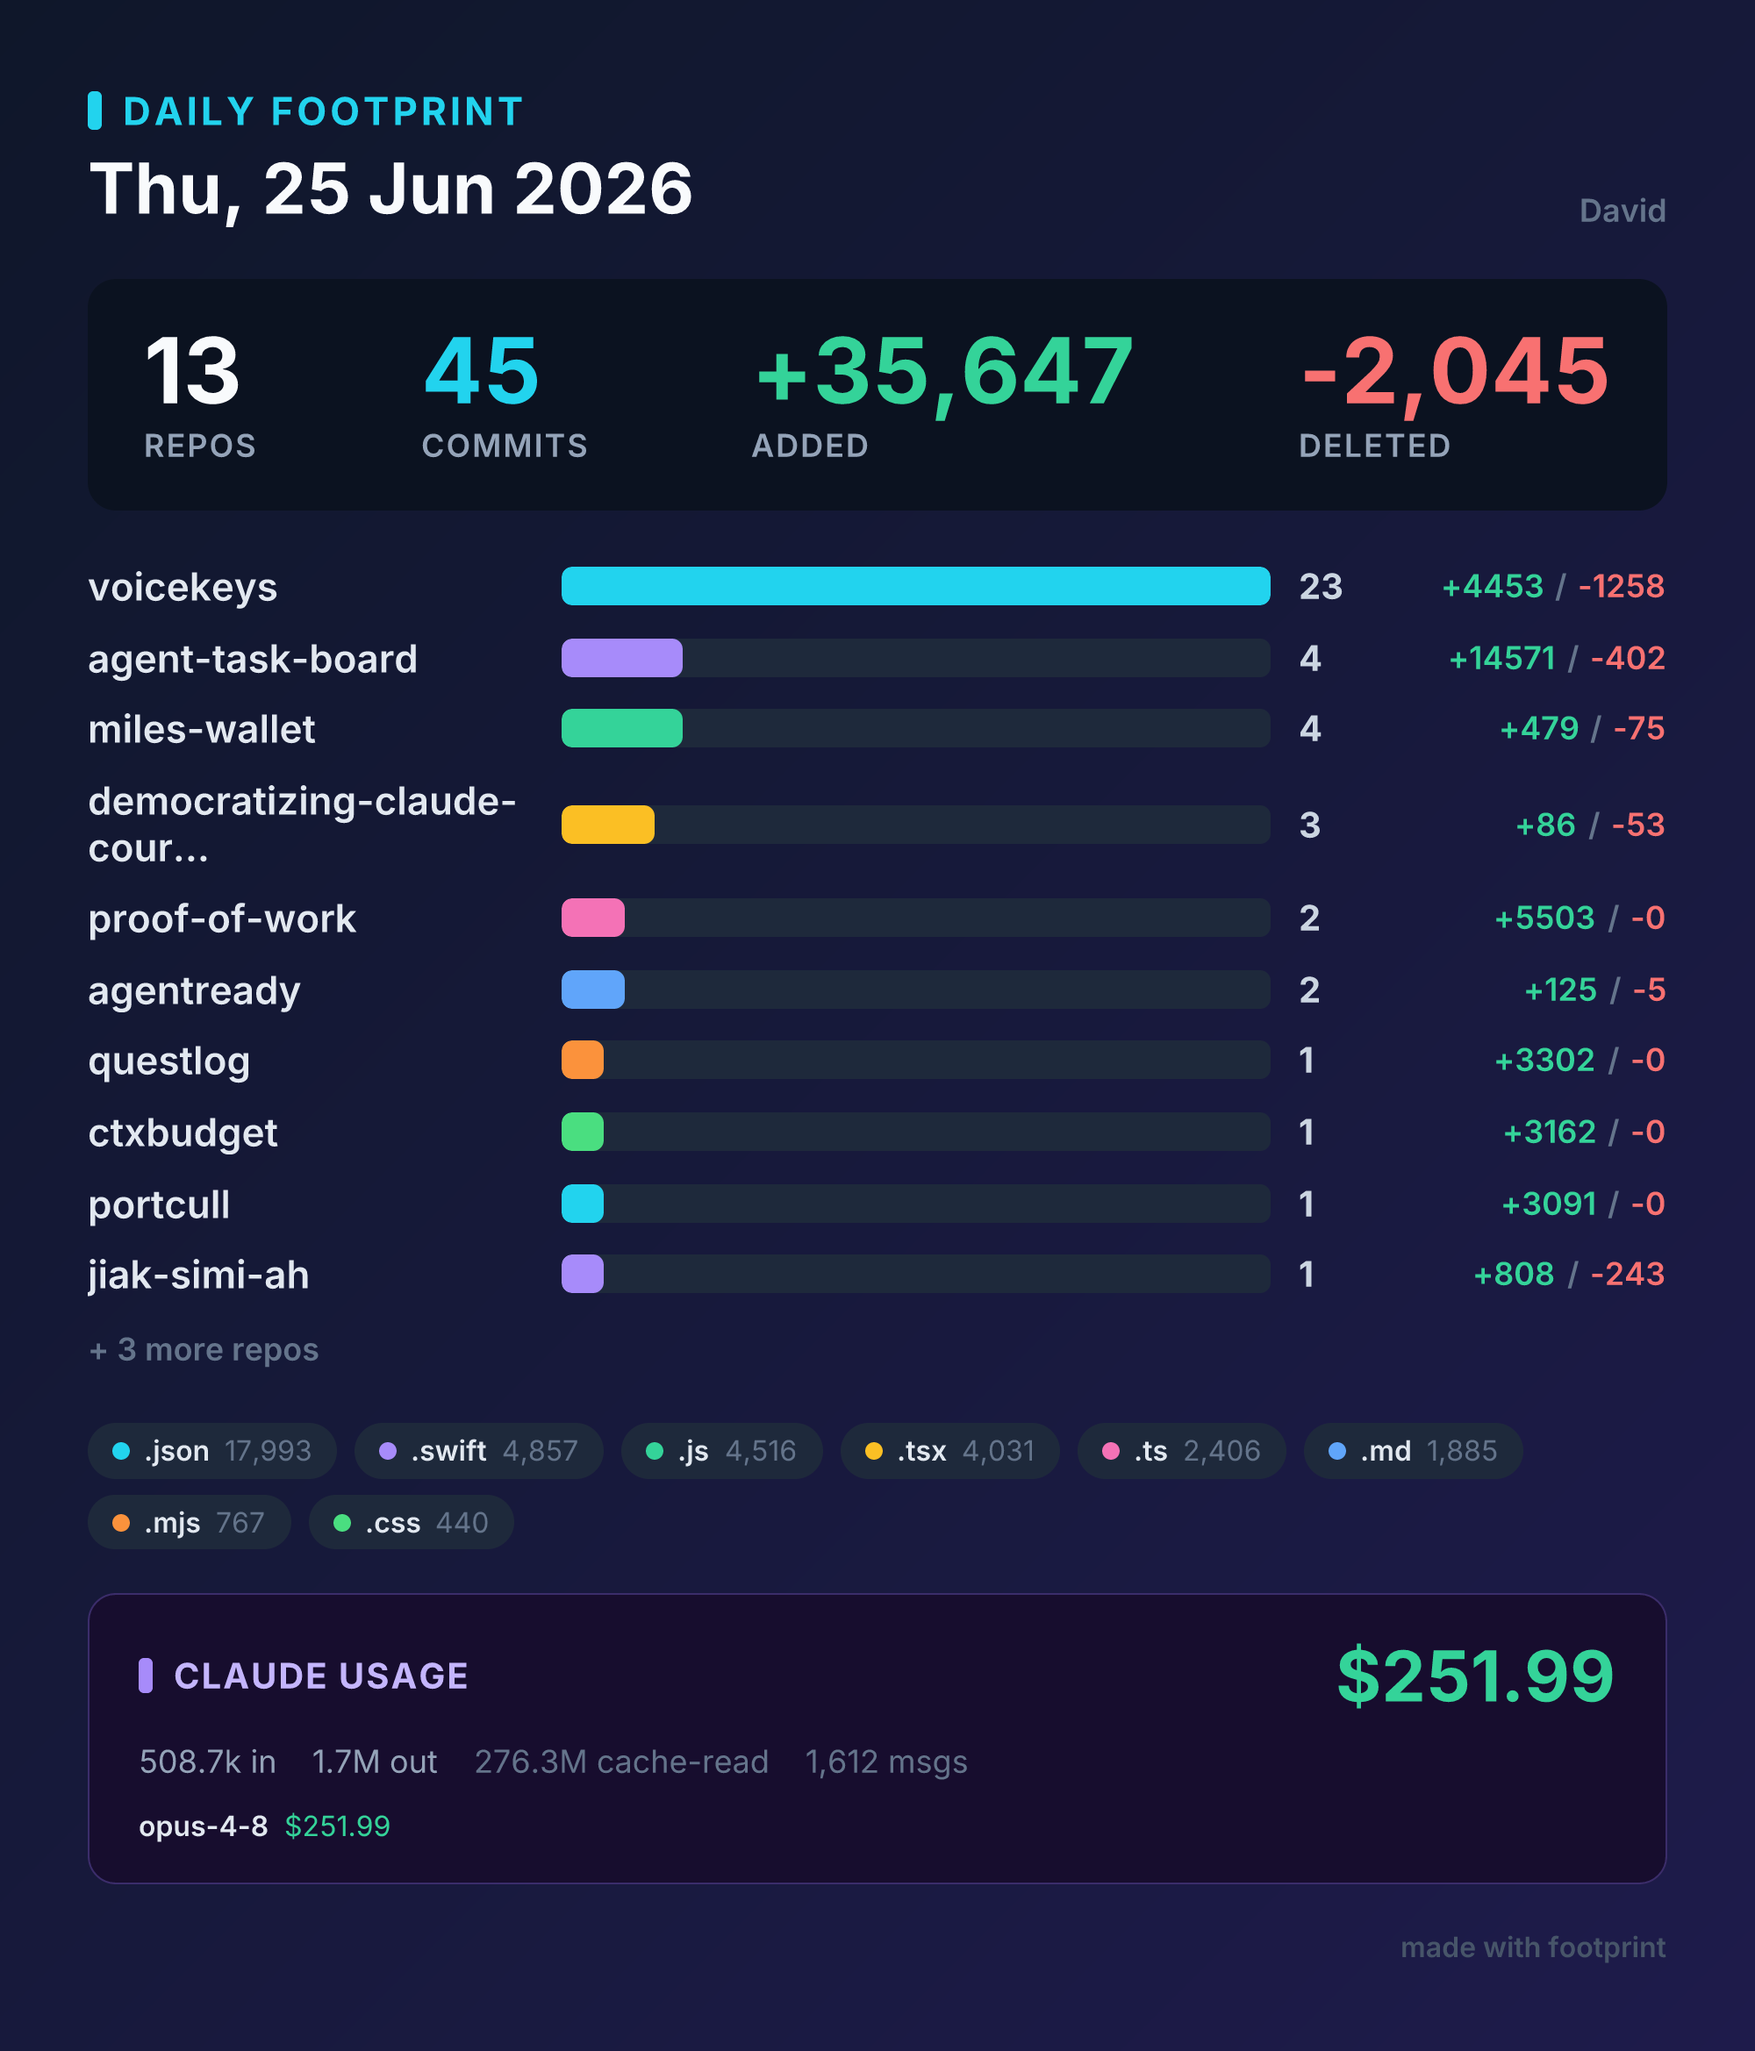
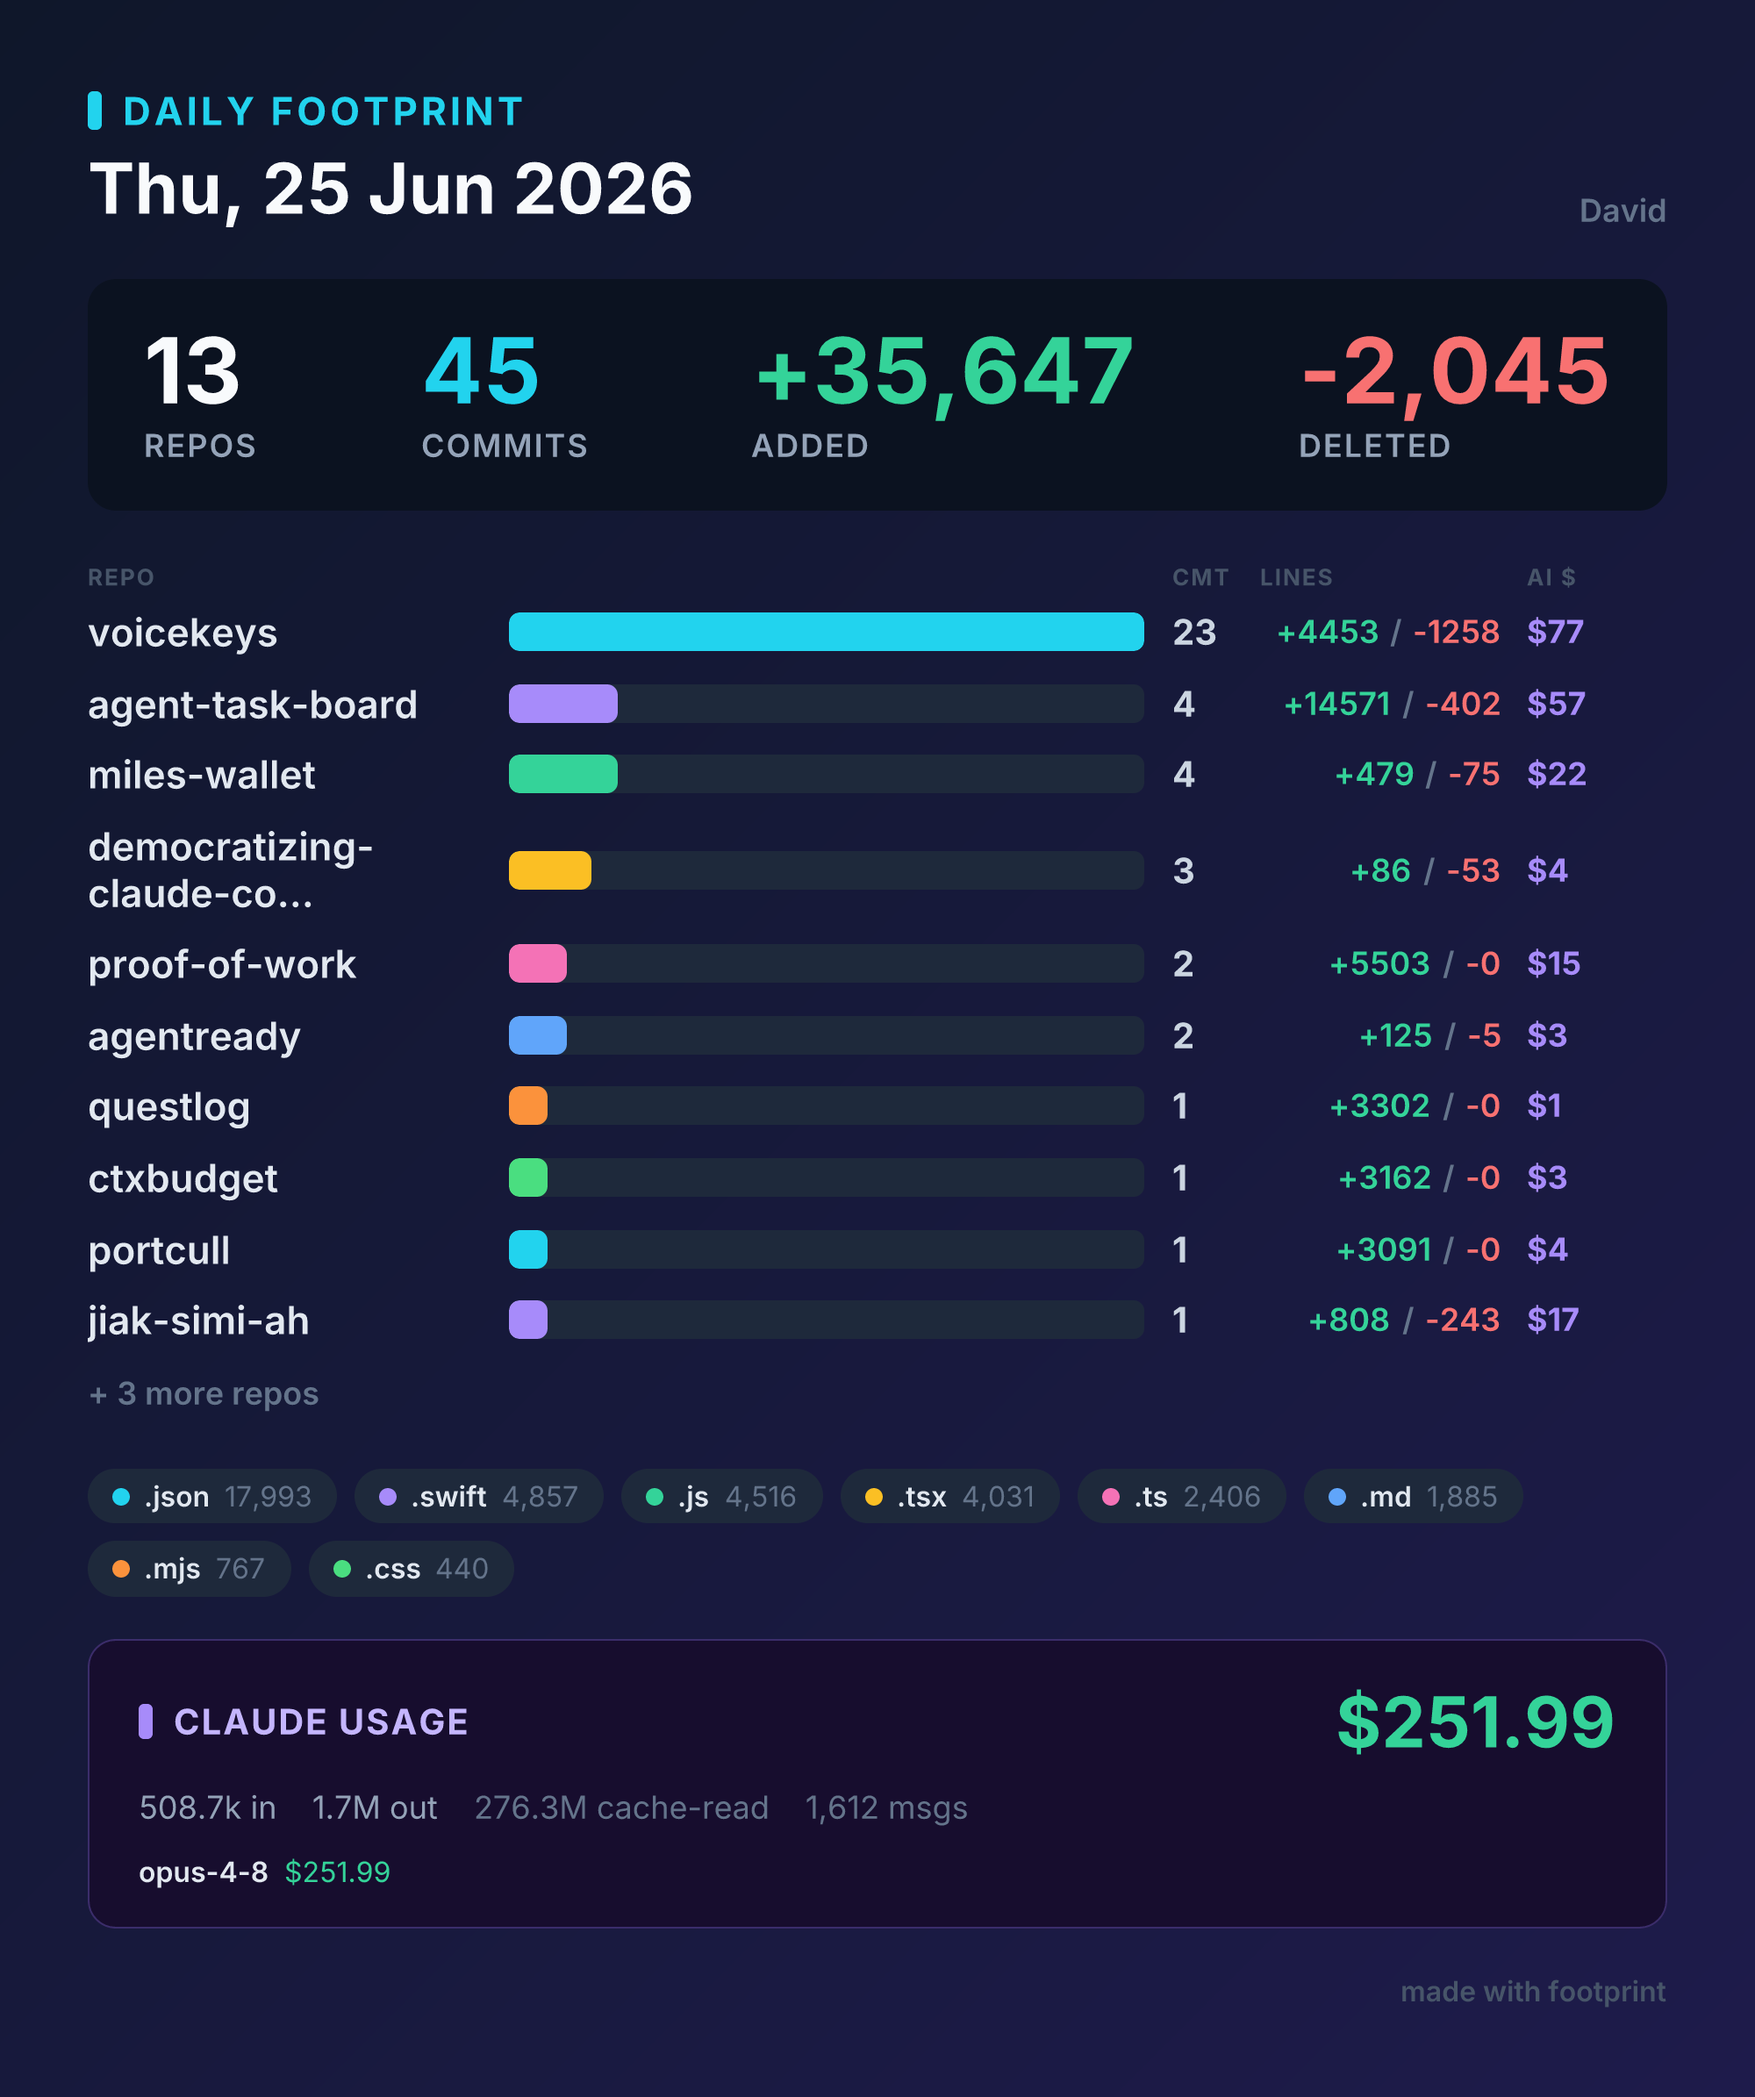
feat: show per-repo AI cost column on card and terminal
Attribute each day's Claude Code spend to repos via session cwd and display it
as an "AI $" column beside each repo's commits/churn, in both the PNG card
(with a column header) and the terminal report.

Claude-Session: https://claude.ai/code/session_01RUzYSZdFGcPb21wgFYuCj7

diff --git a/src/card.ts b/src/card.ts
@@ -31,22 +31,27 @@ function statBlock(value: string, label: string, color: string) {
   ]);
 }
 
-function repoRow(r: RepoSummary, maxCommits: number, color: string) {
+function repoRow(r: RepoSummary, maxCommits: number, color: string, cost?: number) {
   const pct = maxCommits > 0 ? Math.max(6, Math.round((r.commits.length / maxCommits) * 100)) : 6;
-  const name = r.name.length > 26 ? r.name.slice(0, 25) + "…" : r.name;
+  const name = r.name.length > 24 ? r.name.slice(0, 23) + "…" : r.name;
   return h("div", { display: "flex", alignItems: "center", marginBottom: 14 }, [
-    h("div", { width: 270, fontSize: 22, fontWeight: 600, color: "#e2e8f0", overflow: "hidden" }, name),
+    h("div", { width: 240, fontSize: 22, fontWeight: 600, color: "#e2e8f0", overflow: "hidden" }, name),
     h(
       "div",
       { display: "flex", flex: 1, height: 22, background: "#1e293b", borderRadius: 6, overflow: "hidden", marginRight: 16 },
       [h("div", { width: `${pct}%`, height: "100%", background: color, borderRadius: 6 })],
     ),
-    h("div", { width: 60, fontSize: 20, fontWeight: 700, color: "#cbd5e1", textAlign: "right" }, String(r.commits.length)),
-    h("div", { width: 150, fontSize: 18, fontWeight: 600, textAlign: "right", display: "flex", justifyContent: "flex-end" }, [
+    h("div", { width: 50, fontSize: 20, fontWeight: 700, color: "#cbd5e1", textAlign: "right" }, String(r.commits.length)),
+    h("div", { width: 138, fontSize: 18, fontWeight: 600, textAlign: "right", display: "flex", justifyContent: "flex-end" }, [
       h("span", { color: "#34d399" }, `+${r.added}`),
       h("span", { color: "#64748b", margin: "0 6px" }, "/"),
       h("span", { color: "#f87171" }, `-${r.deleted}`),
     ]),
+    h(
+      "div",
+      { width: 80, marginLeft: 14, fontSize: 18, fontWeight: 700, textAlign: "right", color: cost ? "#a78bfa" : "#334155" },
+      cost ? `$${cost.toFixed(0)}` : "·",
+    ),
   ]);
 }
 
@@ -150,11 +155,18 @@ function buildTree(fp: Footprint): Node {
         statBlock(`-${fp.totalDeleted.toLocaleString()}`, "deleted", "#f87171"),
       ],
     ),
+    // column header
+    h("div", { display: "flex", alignItems: "center", marginBottom: 10, fontSize: 13, fontWeight: 700, letterSpacing: 1, color: "#475569" }, [
+      h("div", { flex: 1 }, "REPO"),
+      h("div", { width: 50, textAlign: "right" }, "CMT"),
+      h("div", { width: 138, textAlign: "right" }, "LINES"),
+      h("div", { width: 80, marginLeft: 14, textAlign: "right" }, "AI $"),
+    ]),
     // repo rows
     h(
       "div",
       { display: "flex", flexDirection: "column" },
-      shown.map((r, i) => repoRow(r, maxCommits, PALETTE[i % PALETTE.length])),
+      shown.map((r, i) => repoRow(r, maxCommits, PALETTE[i % PALETTE.length], fp.usage?.byRepo.get(r.name))),
     ),
   ];
 

diff --git a/src/terminal.ts b/src/terminal.ts
@@ -43,9 +43,11 @@ export function renderTerminal(fp: Footprint): string {
   for (const r of fp.repos) {
     const name = r.name.length > nameW ? r.name.slice(0, nameW - 1) + "…" : r.name.padEnd(nameW);
     const churn = pc.green("+" + r.added) + " " + pc.red("-" + r.deleted);
+    const cost = fp.usage?.byRepo.get(r.name);
+    const costStr = cost ? "  " + pc.magenta("$" + cost.toFixed(0)) : "";
     lines.push(
       `  ${pc.bold(name)}  ${pc.cyan(bar(r.commits.length, maxCommits))} ` +
-        `${pc.cyan(String(r.commits.length).padStart(2))} ${pc.dim("commits")}  ${churn}`,
+        `${pc.cyan(String(r.commits.length).padStart(2))} ${pc.dim("commits")}  ${churn}${costStr}`,
     );
   }
 
